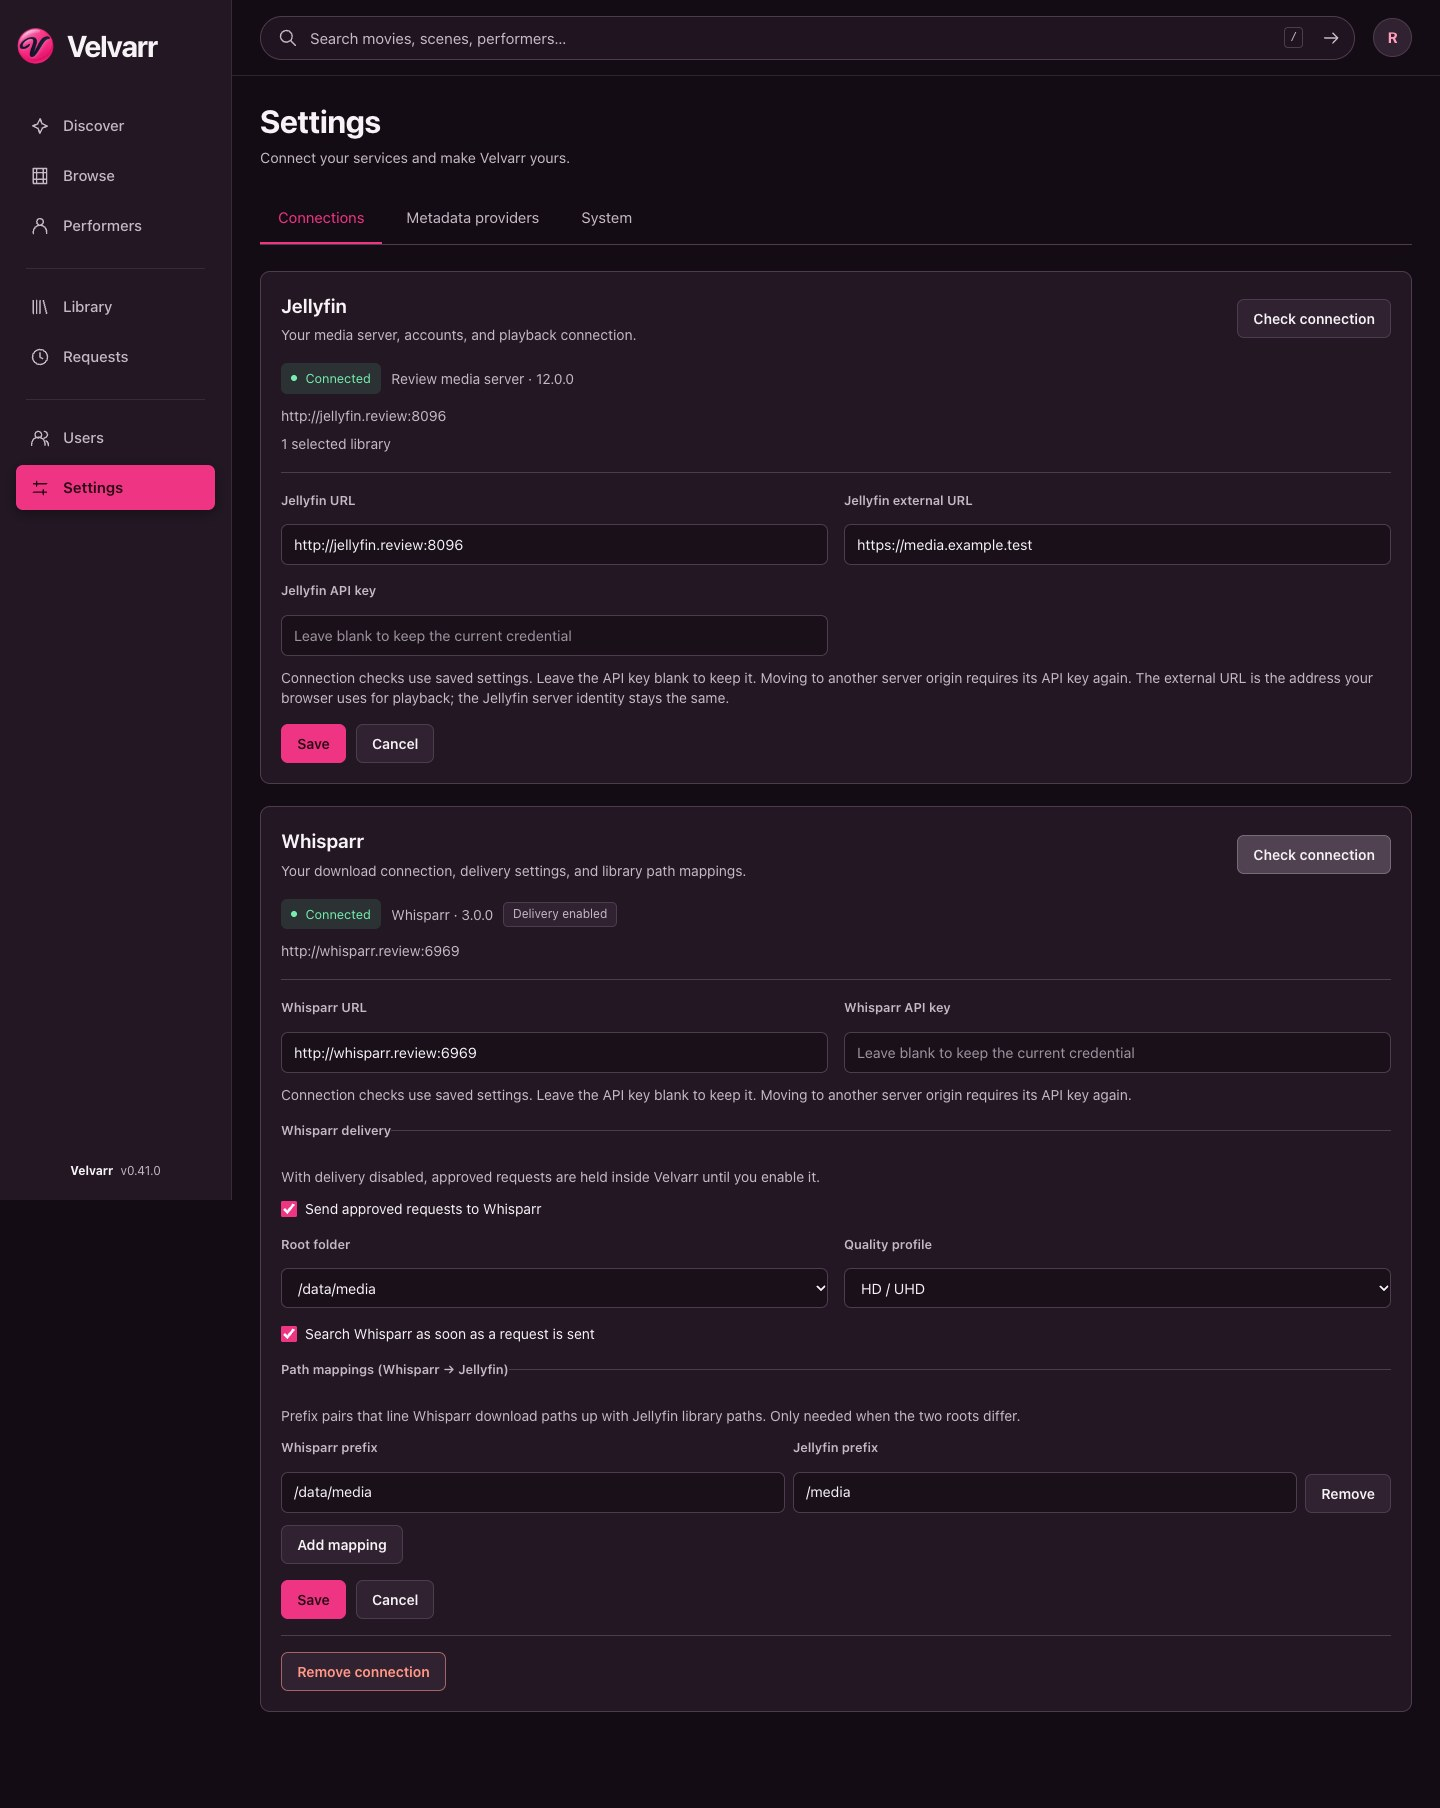
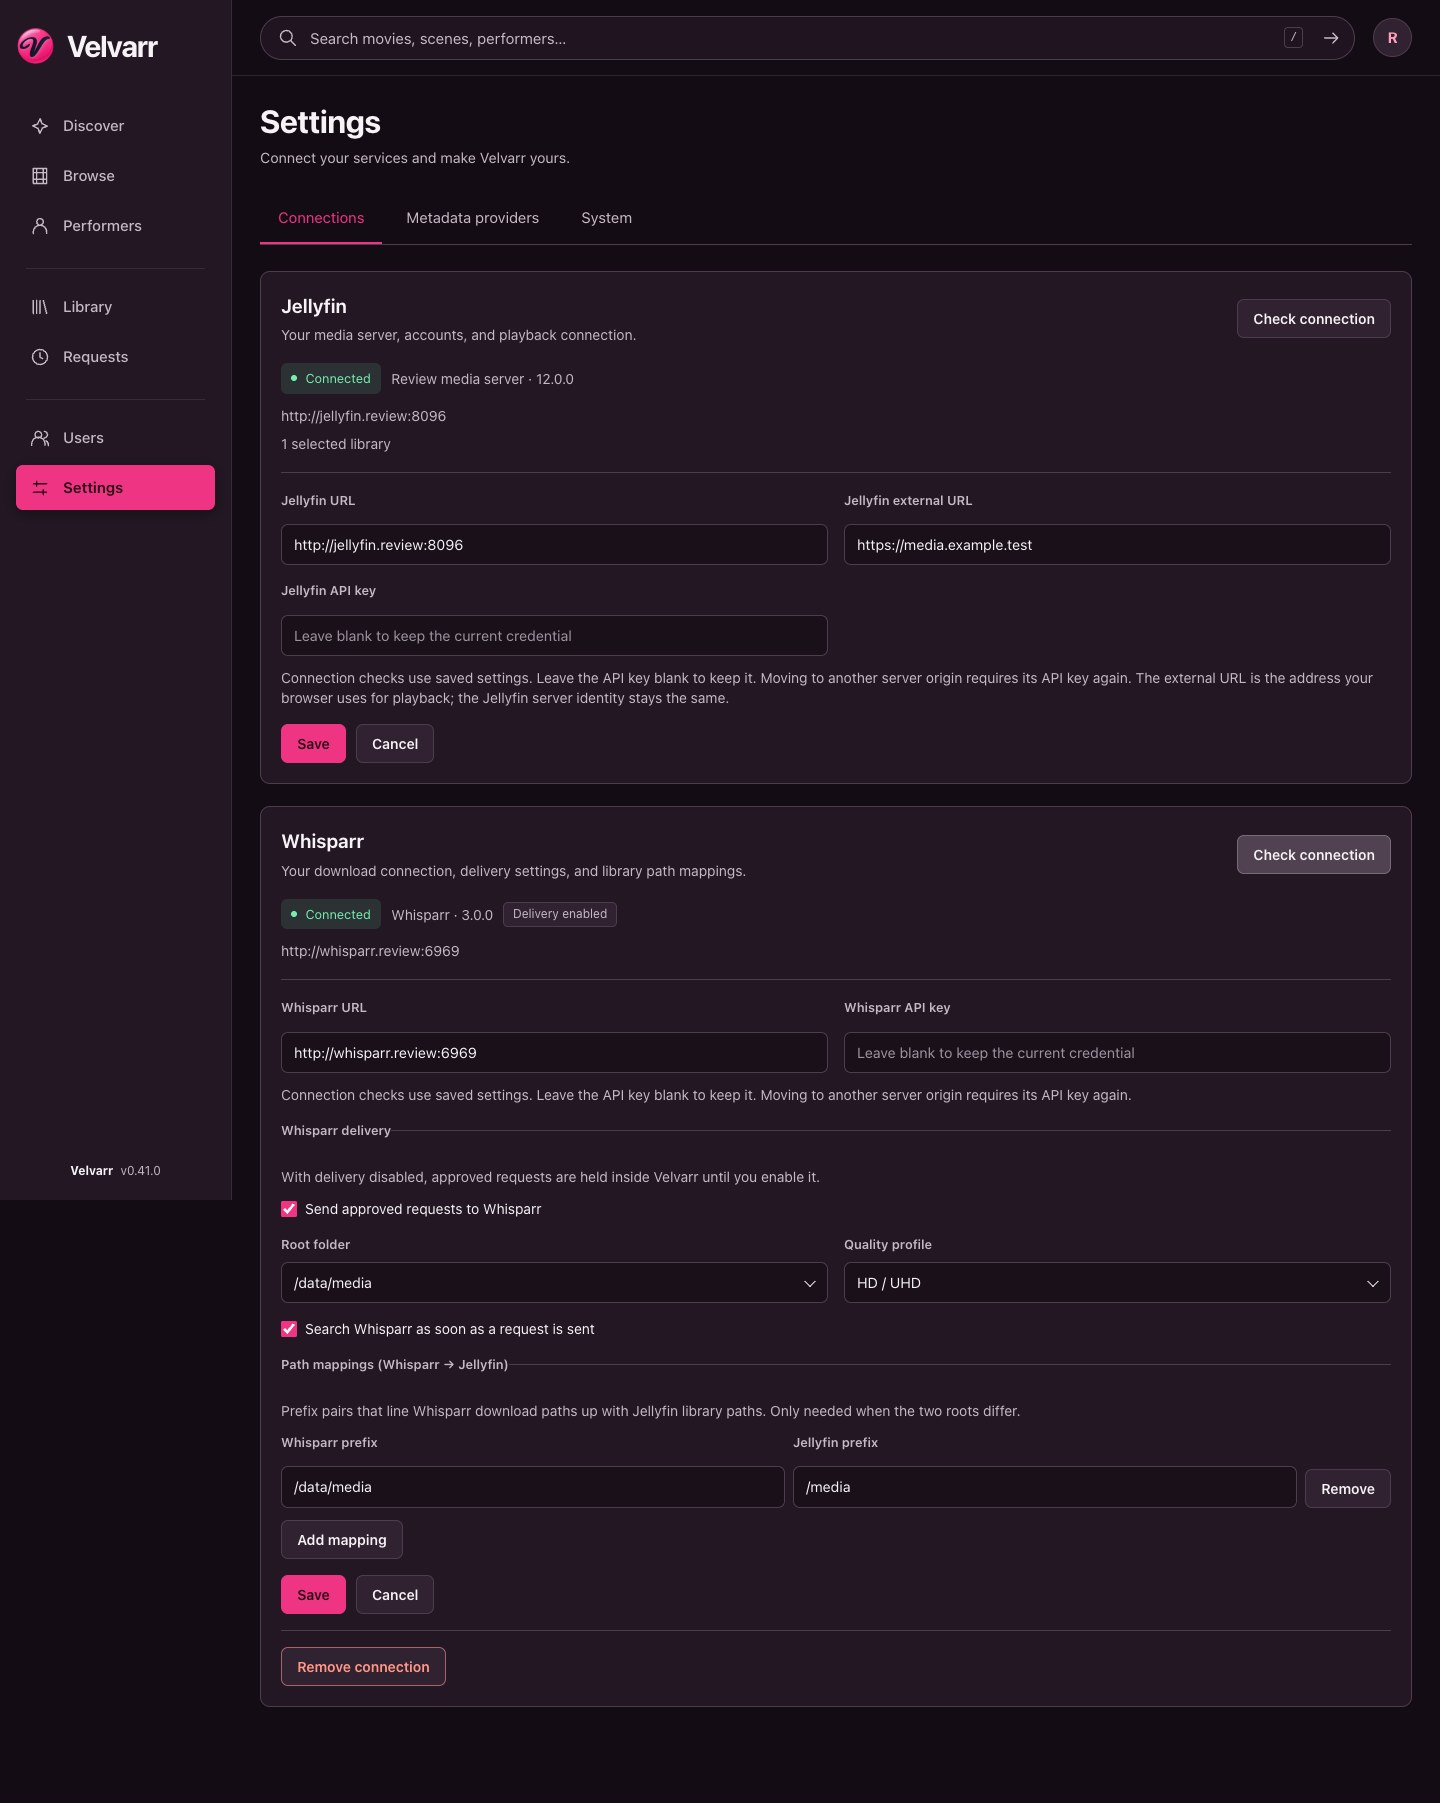
📸 The arrows passed their personal-space audit

diff --git a/reviews/settings-connections-parity-20261112/README.md b/reviews/settings-connections-parity-20261112/README.md
@@ -1,11 +1,11 @@
 # Connections and Metadata settings parity — November 12, 2026
 
 - Before: fork main `bd8fd20abf14687a48d826c34ae8a50f8513eef6`, whose application tree matches upstream `adf0191663a34650f806bdf87fc600ce59c85658` (v0.41.0).
-- After: feature branch `wee/settings-connections-parity`, commit `61d56c32fbc30ed45b5eca7636b0ae6cacf30edb`.
+- After: feature branch `wee/settings-connections-parity`, commit `70e928a3229ac416f1178c8058ce29c3ac2335f4`.
 - Production Next.js build; Node 24.21.0 and Bun 1.3.14.
 - Desktop viewport: 1440 × 1200. Mobile viewport: 390 × 844. Captures show full pages; fixed navigation is positioned at the viewport boundary in tall captures.
 - All service URLs, users, accounts, and credentials are synthetic. Responses come from an isolated local fixture. These checks establish UI behavior, not live provider connectivity.
-- Validation: 731 tests, formatting, types, dependency audit, production build, and 12 browser scenarios passed. Browser checks reported no page errors. [GitHub CI](https://github.com/scottgigawatt/velvarr/actions/runs/43329099323) also passed application and container build/readiness/restart/non-root/read-only-code checks. Image publication was skipped.
+- Validation: 731 tests, formatting, types, dependency audit, production build, and 16 browser scenarios passed. Browser checks reported no page errors. [GitHub CI](https://github.com/scottgigawatt/velvarr/actions/runs/43333404872) also passed application and container build/readiness/restart/non-root/read-only-code checks. Image publication was skipped.
 
 ## Captures
 
@@ -18,3 +18,14 @@
 - [Successful save followed by a failed connection check](connections-failed-check.jpg)
 
 [Browser scenarios and results](browser-results.json).
+
+## Follow-up: picker spacing and upstream feedback
+
+Both Root folder and Quality profile now use the existing settings picker styling: a 14px arrow inset and 40px text padding. The underlying controls remain labeled native selects. Connection save feedback appears immediately after Save/Cancel, before destructive controls.
+
+- [Picker close-up](whisparr-picker-spacing.jpg)
+- [Whisparr editor on desktop](whisparr-pickers-desktop.jpg)
+- [Whisparr editor on mobile](whisparr-pickers-mobile.jpg)
+- [Audit of all 15 findings and follow-up items from upstream PRs #1 and #2](upstream-review-audit.json)
+
+The audit includes the original discussions, review submissions, inline comments, and later confirmations. All listed regressions were checked against this source. No upstream comments or review-thread states were changed.
